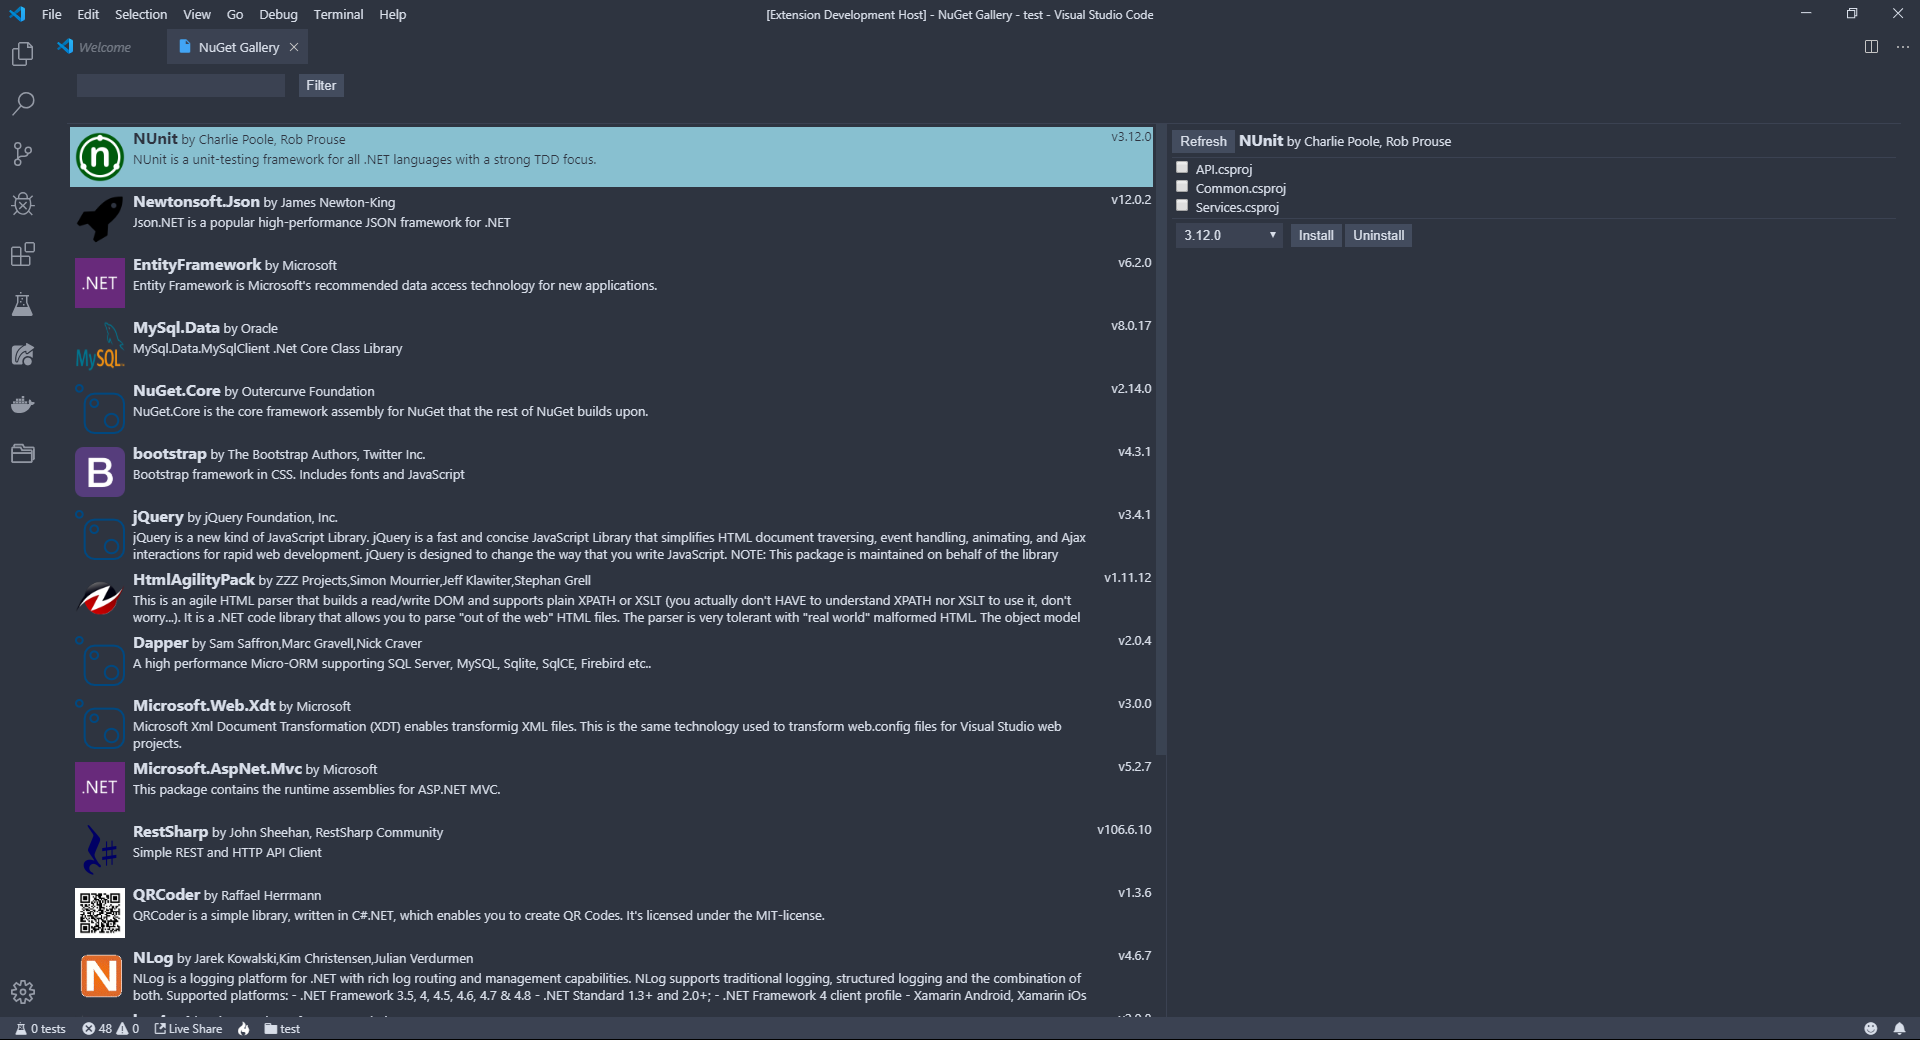
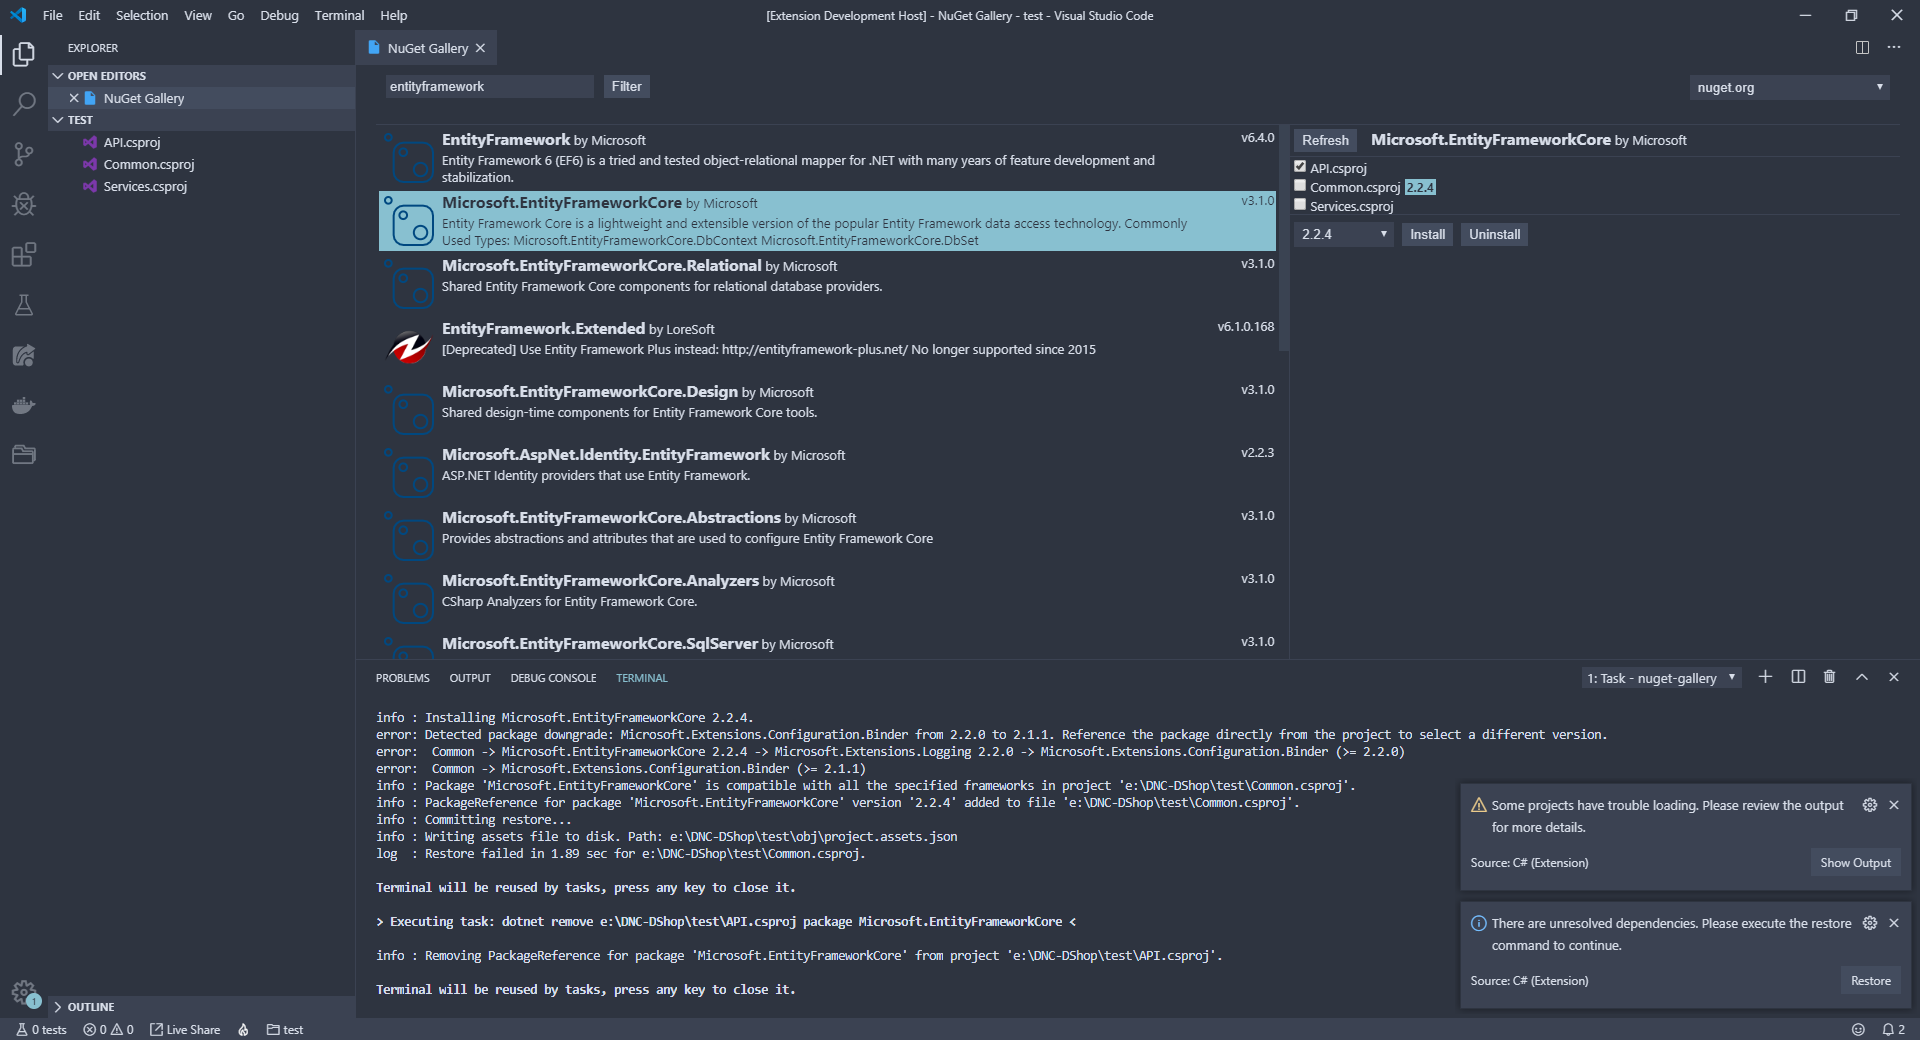
Feature/10 private feeds (#11)
* add source selector

* add fetching from specific source

* add credentials provider

diff --git a/web/src/components/PackagesList.vue b/web/src/components/PackagesList.vue
@@ -39,11 +39,21 @@ export default {
       status: "loaded",
       morePackagesStatus: "loaded",
       page: 0,
-      pageSize: 20
+      pageSize: 20,
+      queryUrl: null,
+      credentials: null
     };
   },
   props: {
-    filter: String
+    filter: String,
+    source: Object
+  },
+  watch: {
+    source(newValue) {
+      this.queryUrl = null;
+      this.credentials = null;
+      this.refresh();
+    }
   },
   methods: {
     onScroll(e) {
@@ -54,16 +64,39 @@ export default {
         this.appendPackages();
       }
     },
+    createQuery() {
+      if (this.queryUrl == null) {
+        return new Promise((resolve, reject) => {
+          axios
+            .get(this.source.url)
+            .then(response => {
+              let resource = response.data.resources.find(x =>
+                x["@type"].includes("SearchQueryService")
+              );
+              if (resource != null) this.queryUrl = resource["@id"];
+              if (this.queryUrl == null) reject();
+              this.createQuery()
+                .then(response => resolve(response))
+                .catch(error => reject(error));
+            })
+            .catch(error => {
+              reject(error);
+            });
+        });
+      }
+
+      return axios.get(this.queryUrl, {
+        params: {
+          q: this.filter,
+          take: this.pageSize,
+          skip: this.page * this.pageSize
+        }
+      });
+    },
     appendPackages() {
+      if (this.source == null) return;
       this.morePackagesStatus = "loading";
-      axios
-        .get("https://api-v2v3search-0.nuget.org/query", {
-          params: {
-            q: this.filter,
-            take: this.pageSize,
-            skip: this.page * this.pageSize
-          }
-        })
+      this.createQuery()
         .then(response => {
           this.morePackagesStatus = "loaded";
           if (response.data && response.data.data.length > 0)
@@ -71,28 +104,21 @@ export default {
           else this.morePackagesStatus = "all";
         })
         .catch(err => {
-          console.error(err);
           this.morePackagesStatus = "error";
         });
     },
     refresh() {
+      if (this.source == null) return;
       this.page = 0;
       this.selectPackage(null);
       this.packages = null;
       this.status = "loading";
-      axios
-        .get("https://api-v2v3search-0.nuget.org/query", {
-          params: {
-            q: this.filter,
-            take: this.pageSize
-          }
-        })
+      this.createQuery()
         .then(response => {
           if (response.data) this.packages = response.data.data;
           this.status = "loaded";
         })
         .catch(err => {
-          console.error(err);
           this.status = "error";
         });
     },
@@ -101,8 +127,42 @@ export default {
       this.$emit("packageChanged", selectedPackage);
     }
   },
-  mounted() {
-    this.refresh();
+  created() {
+    axios.interceptors.request.use(
+      config => {
+        if (this.credentials) {
+          let token = `${this.credentials.Username}:${this.credentials.Password}`;
+          let encodedToken = btoa(token);
+          config.headers["Authorization"] = "Basic " + encodedToken;
+        }
+        return config;
+      },
+      error => {
+        Promise.reject(error);
+      }
+    );
+
+    axios.interceptors.response.use(
+      response => response,
+      error => {
+        const originalRequest = error.config;
+        if (error.response.status === 401) {
+          return new Promise((resolve, reject) => {
+            this.$emit("getCredentials", {
+              source: this.source.url,
+              callback: res => {
+                if (res.source == this.source.url) {
+                  this.credentials = res.credentials;
+                  return axios(originalRequest)
+                    .then(response => resolve(response))
+                    .catch(error => reject(error));
+                }
+              }
+            });
+          });
+        } else Promise.reject(error);
+      }
+    );
   }
 };
 </script>

diff --git a/web/src/App.vue b/web/src/App.vue
@@ -2,11 +2,14 @@
   <div class="container">
     <div class="header">
       <filters @filterChanged="updateFilter($event)" @filter="refreshList" />
+      <source-selector :sources="nugetSources" @sourceChanged="changeSource" />
     </div>
     <div class="packages-list">
       <packages-list
         :filter="filter"
+        :source="currentSource"
         @packageChanged="packageChanged"
+        @getCredentials="fetchCredentials"
         ref="packagesList"
       />
     </div>
@@ -26,10 +29,12 @@
 
 <script>
 import Filters from "@/components/Filters";
+import SourceSelector from "@/components/SourceSelector";
 import ProjectsPanel from "@/components/ProjectsPanel";
 import PackagesList from "@/components/PackagesList";
 
 import _ from "lodash";
+import axios from "axios";
 
 const vscode = acquireVsCodeApi();
 
@@ -38,15 +43,19 @@ export default {
   components: {
     Filters,
     ProjectsPanel,
-    PackagesList
+    PackagesList,
+    SourceSelector
   },
   data() {
     return {
+      currentSource: null,
       filter: null,
       selectedPackage: null,
       projects: [],
       rawProjects: [],
-      debouncedListRefresh: _.debounce(this.refreshList, 500)
+      nugetSources: [],
+      debouncedListRefresh: _.debounce(this.refreshList, 500),
+      credentialsCallback: {}
     };
   },
   computed: {
@@ -61,6 +70,9 @@ export default {
   methods: {
     refreshList() {
       this.$refs.packagesList.refresh();
+    },
+    changeSource(source) {
+      this.currentSource = source;
     },
     recalculateProjectsList() {
       if (!this.selectedPackage) this.projects = null;
@@ -97,7 +109,8 @@ export default {
         command: "add",
         projects: data.selectedProjects,
         package: this.selectedPackage,
-        version: data.selectedVersion
+        version: data.selectedVersion,
+        source: this.currentSource.url
       });
     },
     uninstall(data) {
@@ -106,14 +119,37 @@ export default {
         projects: data.selectedProjects,
         package: this.selectedPackage
       });
+    },
+    fetchCredentials(req) {
+      this.credentialsCallback[req.source] = req.callback;
+      vscode.postMessage({
+        command: "getCredentials",
+        source: req.source
+      });
     }
   },
   created() {
     window.addEventListener("message", event => {
-      this.rawProjects = event.data;
-      this.recalculateProjectsList();
+      console.log("WEB: Received message", event);
+      switch (event.data.command) {
+        case "setProjects":
+          this.rawProjects = event.data.payload;
+          this.recalculateProjectsList();
+          break;
+        case "setSources":
+          this.nugetSources = event.data.payload.map(x => JSON.parse(x));
+          break;
+        case "setCredentials":
+          this.credentialsCallback[event.data.payload.source](
+            event.data.payload.credentials
+          );
+          break;
+      }
     });
     this.sendProjectsReloadRequest();
+    vscode.postMessage({
+      command: "reloadSources"
+    });
   }
 };
 </script>
@@ -161,6 +197,8 @@ button:hover {
 .header {
   grid-column: 1 / 3;
   border-bottom: 1px solid var(--vscode-sideBar-border);
+  display: flex;
+  justify-content: space-between;
 }
 
 .packages-list {

diff --git a/src/extension.ts b/src/extension.ts
@@ -9,9 +9,20 @@ const xpath = require('xpath');
 const dom = require('xmldom').DOMParser;
 const fs = require("fs");
 const axios = require('axios').default;
+const exec = require('child_process').exec;
 
 // this method is called when your extension is activated
 // your extension is activated the very first time the command is executed
+
+function postMessage(panel: vscode.WebviewPanel, command: string, payload: object) {
+	panel.webview.postMessage({ command: command, payload: payload });
+}
+
+function readCredentials(configuration: vscode.WorkspaceConfiguration, source: string, credentialsCallback: Function) {
+	exec(configuration.credentialProviderFolder + "/CredentialProvider.Microsoft.exe -C -F Json -U " + source, function callback(error: any, stdout: any, stderr: any) {
+		credentialsCallback({ source: source, credentials: JSON.parse(stdout) });
+	});
+}
 
 function loadProjects(panel: vscode.WebviewPanel) {
 	vscode.workspace.findFiles("**/*.csproj").then(files => {
@@ -34,14 +45,14 @@ function loadProjects(panel: vscode.WebviewPanel) {
 			});
 			projects.push(project);
 		});
-
-		panel.webview.postMessage(projects.sort((a, b) => a.path < b.path ? -1 : a.path > b.path ? 1 : 0));
+		postMessage(panel, "setProjects", projects.sort((a, b) => a.path < b.path ? -1 : a.path > b.path ? 1 : 0));
 	});
 }
 
 export function activate(context: vscode.ExtensionContext) {
 
 	context.subscriptions.push(vscode.commands.registerCommand('extension.start', () => {
+		let configuration = vscode.workspace.getConfiguration("NugetGallery");
 		const panel = vscode.window.createWebviewPanel(
 			'nuget-gallery', // Identifies the type of the webview. Used internally
 			'NuGet Gallery', // Title of the panel displayed to the user
@@ -61,6 +72,14 @@ export function activate(context: vscode.ExtensionContext) {
 				if (message.command === "reloadProjects") {
 					loadProjects(panel);
 				}
+				else if (message.command === "reloadSources") {
+					postMessage(panel, "setSources", configuration.sources);
+				}
+				else if (message.command === "getCredentials") {
+					readCredentials(configuration, message.source, (cred: Object) => {
+						postMessage(panel, "setCredentials", { source: message.source, credentials: cred });
+					});
+				}
 				else {
 					for (let i = 0; i < message.projects.length; i++) {
 						let project = message.projects[i];
@@ -68,6 +87,8 @@ export function activate(context: vscode.ExtensionContext) {
 						if (message.command === 'add') {
 							args.push("-v");
 							args.push(message.version);
+							args.push("-s");
+							args.push(message.source);
 						}
 						let task = new vscode.Task(
 							{ type: 'dotnet', task: `dotnet ${message.command}` },

diff --git a/web/src/components/SourceSelector.vue b/web/src/components/SourceSelector.vue
@@ -1,0 +1,47 @@
+<template>
+  <div>
+    <select v-model="selectedSource">
+      <option :key="source.name" v-for="source in sources" :value="source">
+        {{ source.name }}
+      </option>
+    </select>
+  </div>
+</template>
+
+<script>
+export default {
+  name: "SourceSelector",
+  data() {
+    return {
+      source: null
+    };
+  },
+  watch: {
+    sources(newValue) {
+      if (newValue && newValue.length > 0) this.selectedSource = newValue[0];
+      else this.selectedSource = null;
+    }
+  },
+  props: {
+    sources: Array
+  },
+  computed: {
+    selectedSource: {
+      get() {
+        return this.source;
+      },
+      set(value) {
+        this.source = value;
+        this.$emit("sourceChanged", this.source);
+      }
+    }
+  }
+};
+</script>
+
+<style lang="scss" scoped>
+select {
+  margin: 10px;
+  width: 200px;
+}
+</style>

diff --git a/README.md b/README.md
@@ -6,9 +6,15 @@ NuGet Gallery Extension makes installing and uninstalling NuGet packages easier
 ## Features
 ![feature X](docs/images/presentation_1.gif)
 
-
+## Configuration
+* Credential Provider Folder - in order to use private feeds credential provider is required [CredentialProvider](https://github.com/microsoft/artifacts-credprovider)
+* Sources - new sources can be added in appropriate json format: {"name": "...", "url": "..."}
 
 ## Release Notes
+
+### v0.0.5
+
+Add private feeds support - beta
 
 ### v0.0.4
 
